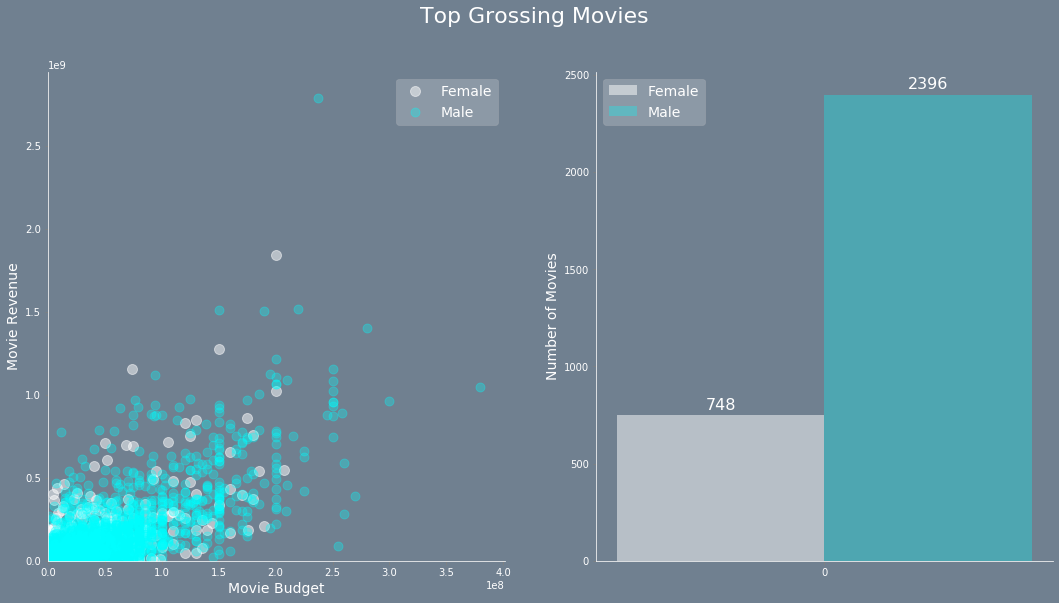
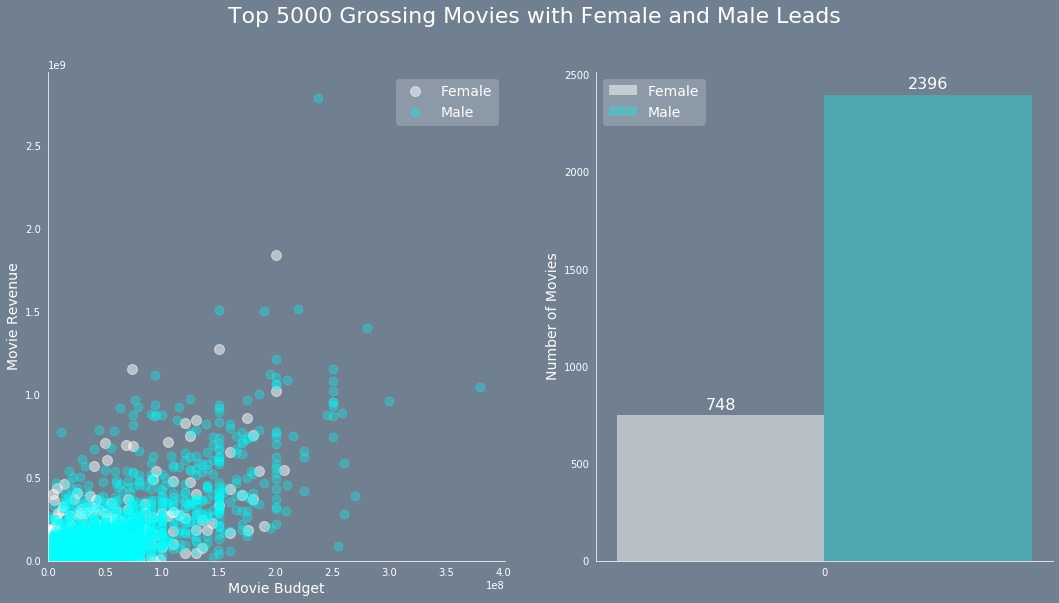
split movies.py into two parts: prep and viz

Changed region(s): [[0.2181, 0.0, 0.8102, 0.0597]]

diff --git a/MovieRevenues/viz.py b/MovieRevenues/viz.py
@@ -1,84 +1,11 @@
-import pandas as pd
+import matplotlib.pyplot as plt
 import numpy as np
+import pandas as pd
 
-"""
-link to the data I have obtained from IMDB webpage
-is available in the .txt file located in this folder
-"""
-# import data
-movies = pd.read_csv('tmdb_5000_movies.csv')
-movies.head()
-
-# let's start cleaning genres
-movies['genres'].head()
-
-# let's select only the columns I need
-movies.columns
-col = ['budget', 'genres', 'original_language', 'original_title', 'popularity',
-       'production_countries', 'release_date', 'revenue', 'runtime', 'vote_average','vote_count']
-movies = movies[col]
-
-# First we should remove 'id' 'name' and 'number'
-pattern = r'"id": [0-9]+, "name": '
-movies['genres'] = movies['genres'].str.replace(pattern, '')
-
-# I get rid of the brackets and the quotes
-pattern1 = r'[\[{"+"}+\]]'
-movies['genres'] = movies['genres'].str.replace(pattern1, '')
-movies['genres'] = movies['genres'].str.replace(' ', '')
-
-# Let's split the genre column for all the given genres
-genres = movies['genres'].str.split(',', expand=True)
-
-# I will only keep the first three genres for each movie, otherwise this thing can get overwhelming
-genres = genres.iloc[:, :3]
-
-genres.replace({'ScienceFiction': 'Sci-Fi'}, inplace=True)
-
-print(genres.describe())
-print('number of rows in genres df: ', genres.shape[0])
-print('number of rows in movies df: ',movies.shape[0])
-
-# I combine our datasets into one df
-movies_updated = pd.concat([movies, genres], axis=1)
-movies = movies_updated.drop(['genres'], axis=1)
-movies.rename(columns={0: 'main_genre',
-              1: 'secondary_genre',
-              2: 'tertiary_genre'}, inplace=True)
-
-# Clean the production countries and make it dataframe consistent
-movies['production_countries'] = movies['production_countries'].str.extract(r'([A-Z]{2})')
-
-# I will the information about the cast to the dataset from another csv file
-cast = pd.read_csv('tmdb_5000_credits.csv')
-
-# We want the information regarding the gender of the lead role
-# for this I use regex method to extract needed data
-cast_gender = cast['cast'].str.extract(r'(?<="gender":\s)([0-9])')
-cast_gender.iloc[:, 0].value_counts(dropna=False)
-
-# I'm replacing 0's with NaN values and males with 1
-# this way we have binary variable with male=1 & female=0
-cast_gender = cast_gender.replace('0', np.nan)
-cast_gender = cast_gender.replace('2', '0')
-cast_gender.iloc[:,0].value_counts(dropna=False)
-cast_gender = cast_gender.astype(float, errors='ignore')
-
-# I'm appending this column to our general dataset
-movies_updated = pd.concat([movies, cast_gender], axis=1)
-movies_updated.rename(columns={0: 'gender'}, inplace=True)
-movies_updated.head()
-
-# I will also scale the continiues budget and revenue variables
-# This is more useful for  inferences as log'll be normally distributed
-movies_updated['budget_log'] = np.log(movies_updated['budget'])
-movies_updated['revenue_log'] = np.log(movies['revenue'])
-movies_updated.info()
-
+# I'll run data prep script first
+exec(open("moviesprep.py").read())
 
 # Now, let's start examining visually
-import matplotlib.pyplot as plt
-
 """
 Here I will prepare the scatter and bar plot side by side
 to show how well female lead and male lead movies are doing
@@ -104,12 +31,10 @@ width = 0.35
 x = np.arange(len(labels))
 
 
-
 # Let's start plotting
-
 fig, ax = plt.subplots(1, 2, figsize=(18,9))
 fig.patch.set_facecolor('slategrey') # I setup the backgroung color
-fig.suptitle('Top Grossing Movies', color='w', fontsize=22)
+fig.suptitle('Top 5000 Grossing Movies with Female and Male Leads', color='w', fontsize=22)
     
 # background color for each individual graphs
 ax[0].set_facecolor('slategrey')

diff --git a/MovieRevenues/moviesprep.py b/MovieRevenues/moviesprep.py
@@ -1,0 +1,81 @@
+import pandas as pd
+import numpy as np
+
+"""
+link to the data I have obtained from IMDB webpage
+is available in the .txt file located in this folder
+"""
+# import data
+movies = pd.read_csv('tmdb_5000_movies.csv')
+movies.head()
+
+# let's start cleaning genres
+movies['genres'].head()
+
+# let's select only the columns I need
+movies.columns
+col = ['budget', 'genres', 'original_language', 'original_title', 'popularity',
+       'production_countries', 'release_date', 'revenue', 'runtime', 'vote_average','vote_count']
+movies = movies[col]
+
+# First we should remove 'id' 'name' and 'number'
+pattern = r'"id": [0-9]+, "name": '
+movies['genres'] = movies['genres'].str.replace(pattern, '')
+
+# I get rid of the brackets and the quotes
+pattern1 = r'[\[{"+"}+\]]'
+movies['genres'] = movies['genres'].str.replace(pattern1, '')
+movies['genres'] = movies['genres'].str.replace(' ', '')
+
+# Let's split the genre column for all the given genres
+genres = movies['genres'].str.split(',', expand=True)
+
+# I will only keep the first three genres for each movie, otherwise this thing can get overwhelming
+genres = genres.iloc[:, :3]
+
+# Replace column name for easier access
+genres.replace({'ScienceFiction': 'Sci-Fi'}, inplace=True)
+
+print(genres.describe())
+print('number of rows in genres df: ', genres.shape[0])
+print('number of rows in movies df: ',movies.shape[0])
+
+# I combine our datasets into one df
+movies_updated = pd.concat([movies, genres], axis=1)
+movies = movies_updated.drop(['genres'], axis=1)
+movies.rename(columns={0: 'main_genre',
+                       1: 'secondary_genre',
+                       2: 'tertiary_genre'},
+              inplace=True)
+
+# Clean the production countries and make it dataframe consistent
+movies['production_countries'] = movies['production_countries'].str.extract(r'([A-Z]{2})')
+
+# I will the information about the cast to the dataset from another csv file
+cast = pd.read_csv('tmdb_5000_credits.csv')
+
+# We want the information regarding the gender of the lead role
+# for this I use regex method to extract needed data
+cast_gender = cast['cast'].str.extract(r'(?<="gender":\s)([0-9])')
+cast_gender.iloc[:, 0].value_counts(dropna=False)
+
+# I'm replacing 0's with NaN values and males with 1
+# this way we have binary variable with male=1 & female=0
+cast_gender = cast_gender.replace('0', np.nan)
+cast_gender = cast_gender.replace('2', '0')
+
+cast_gender.iloc[:,0].value_counts(dropna=False)
+cast_gender = cast_gender.astype(float, errors='ignore')
+
+# I'm appending this column to our general dataset
+movies_updated = pd.concat([movies, cast_gender], axis=1)
+movies_updated.rename(columns={0: 'gender'}, inplace=True)
+movies_updated.head()
+
+# I will also scale the continiues budget and revenue variables
+# This is more useful for  inferences as log'll be normally distributed
+movies_updated['budget_log'] = np.log(movies_updated['budget'])
+movies_updated['revenue_log'] = np.log(movies['revenue'])
+movies_updated.info()
+
+
